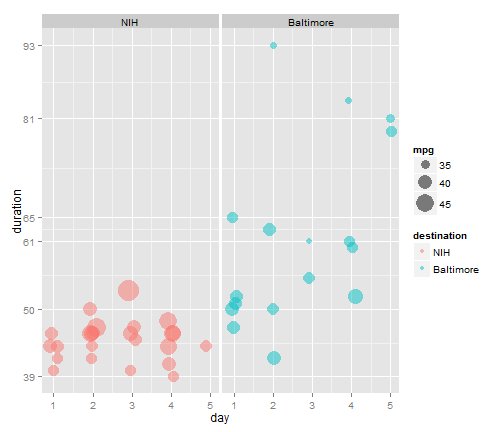
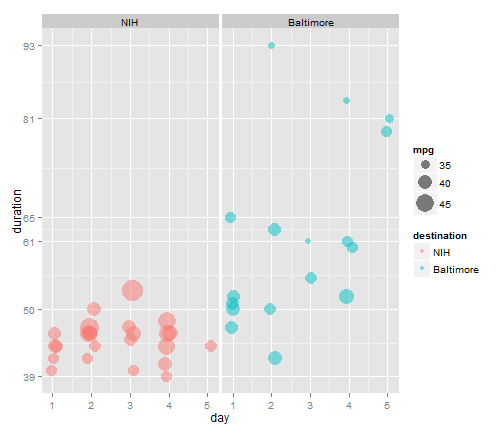
sub-40 baby

diff --git a/readMe.md b/readMe.md
@@ -18,6 +18,10 @@ Stray Observations:
  
  _The Slow Burn_ was a success (8/20/2014)!  I kept it 55 MPH the whole way and broke the 45 MPG barrier with 48.7 MPG clocking in at 53 minutes (obviously took more time, but there might be wiggle room because there was a wreck late on 495).  Next goal is 50 MPG at under an hour.
 
+_The Fast Burn_ was also a success (9/4/2014)!  I kept "kept with the flow of traffic" and broke the 40 minute duration barrier with 38.75 minutes registering a still respectable 37.1 MPG.  There is no new speed goal.
+
+_The Triple Point_:  elusive, beautiful, mysterious:  39 minutes, 39 MPG, 39-ish miles.  
+
 
 Check out the .Rmd file to see code on how to read spreadsheets from Google Drive into R!  Many thanks to [Andrie de Vries and David Smith.](http://blog.revolutionanalytics.com/2014/06/reading-data-from-the-new-version-of-google-spreadsheets.html
 )
